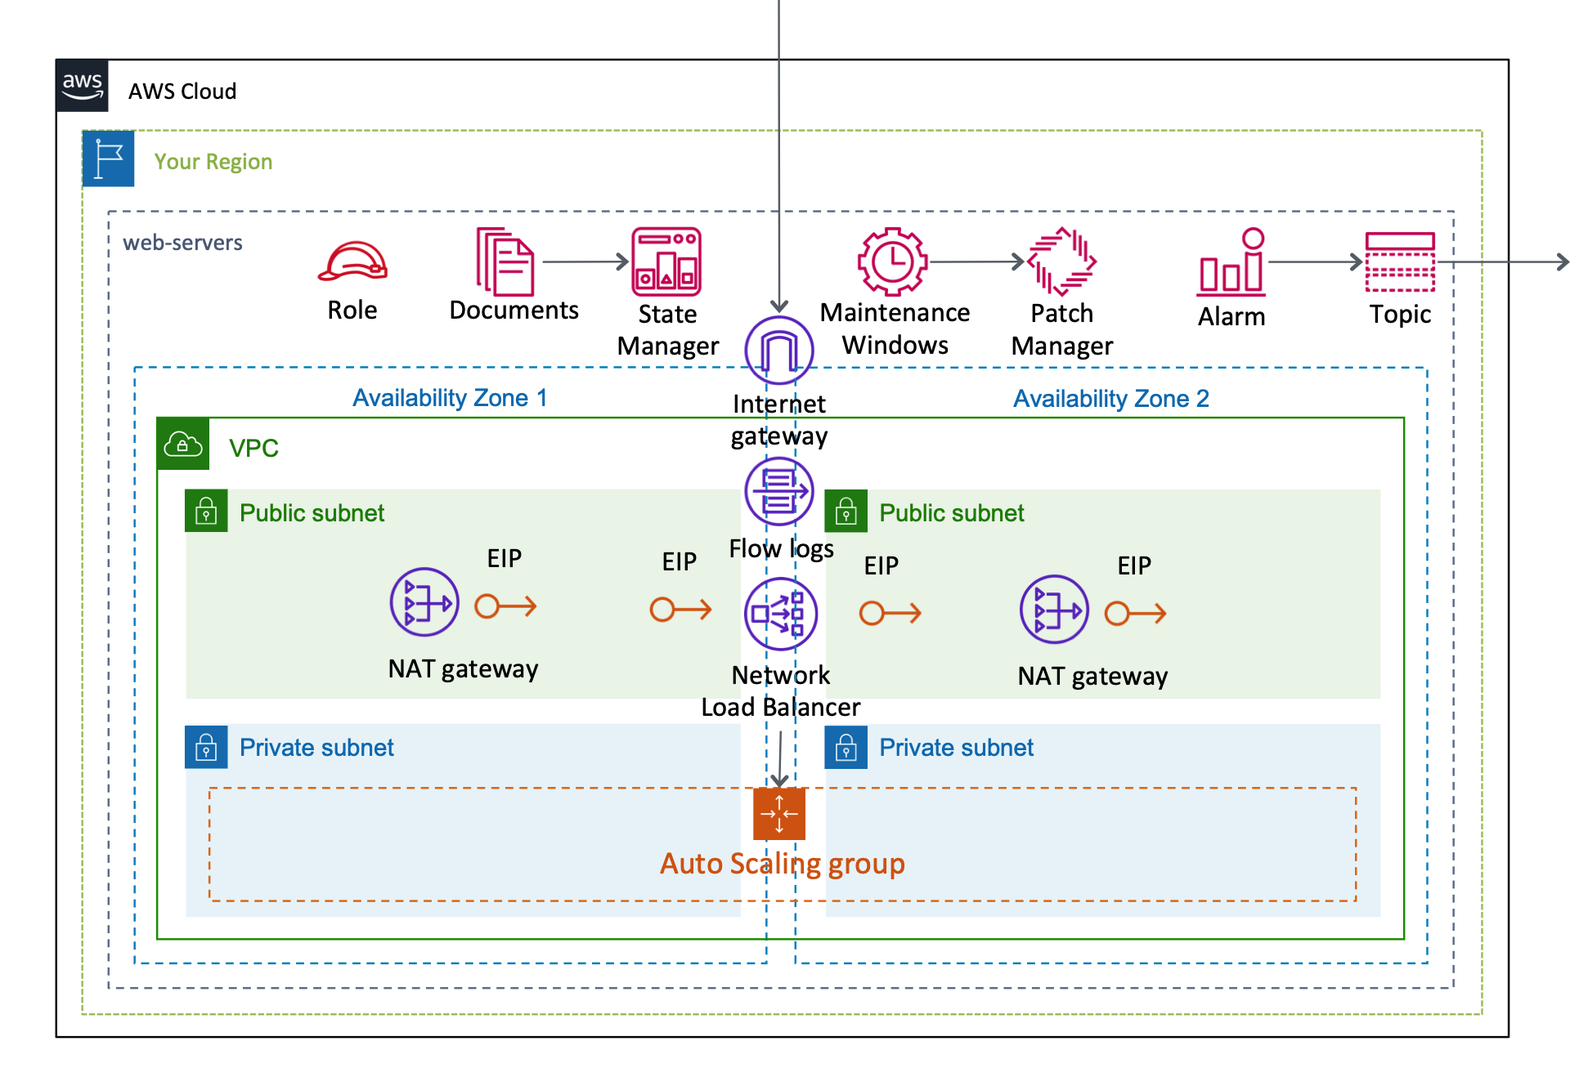
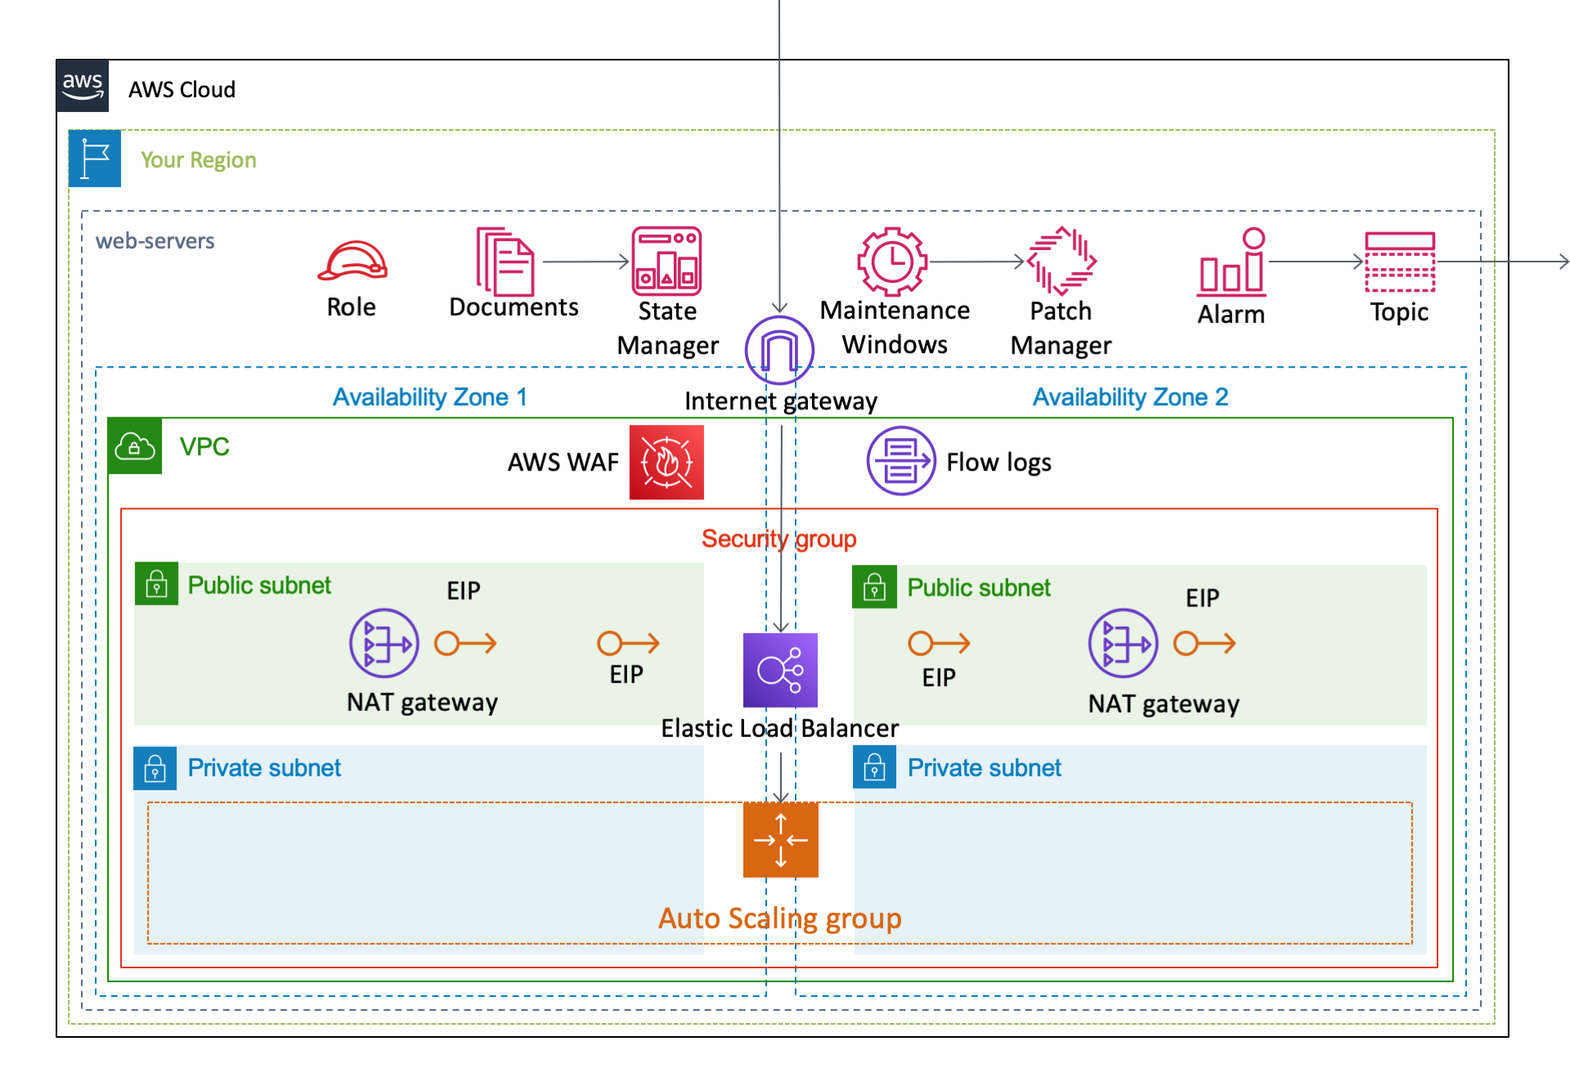
Enable to attach Certificate Manager (SSL certification) to Elastic Load Balancer. (#27)

diff --git a/README_JP.md b/README_JP.md
@@ -13,20 +13,20 @@ AWSCloudFormationTemplates は、**アカウント作成直後に行うべきセ
 
 | アプリケーション名 | 最新バージョン | リンク |
 | --- | --- | --- |
-| [codepipeline-default-settings](cicd/codepipeline-default-settings.md) | 1.1.12 | [AWS Serverless Application Repository](https://serverlessrepo.aws.amazon.com/applications/arn:aws:serverlessrepo:us-east-1:172664222583:applications~codepipeline-default-settings) |
-| [cloudwatch-alarm-about-apigateway](monitoring/cloudwatch-alarm-about-apigateway.md) | 1.1.12 | [AWS Serverless Application Repository](https://serverlessrepo.aws.amazon.com/applications/arn:aws:serverlessrepo:us-east-1:172664222583:applications~cloudwatch-alarm-about-apigateway) |
-| [cloudwatch-alarm-about-codebuild](monitoring/cloudwatch-alarm-about-codebuild.md) | 1.1.12 | [AWS Serverless Application Repository](https://serverlessrepo.aws.amazon.com/applications/arn:aws:serverlessrepo:us-east-1:172664222583:applications~cloudwatch-alarm-about-codebuild) |
-| [cloudwatch-alarm-about-dynamodb-throttle](monitoring/cloudwatch-alarm-about-dynamodb-throttle.md) | 1.1.12 | [AWS Serverless Application Repository](https://serverlessrepo.aws.amazon.com/applications/arn:aws:serverlessrepo:us-east-1:172664222583:applications~cloudwatch-alarm-about-dynamodb-throttle) |
-| [cloudwatch-alarm-about-dynamodb](monitorining/cloudwatch-alarm-about-dynamodb.md) | 1.1.12 | [AWS Serverless Application Repository](https://serverlessrepo.aws.amazon.com/applications/arn:aws:serverlessrepo:us-east-1:172664222583:applications~cloudwatch-alarm-about-dynamodb) |
-| [cloudwatch-alarm-about-ec2](monitoring/cloudwatch-alarm-about-ec2.md) | 1.1.12 | [AWS Serverless Application Repository](https://serverlessrepo.aws.amazon.com/applications/arn:aws:serverlessrepo:us-east-1:172664222583:applications~cloudwatch-alarm-about-ec2) |
-| [cloudwatch-alarm-about-events](monitoring/cloudwatch-alarm-about-events.md) | 1.1.12 | [AWS Serverless Application Repository](https://serverlessrepo.aws.amazon.com/applications/arn:aws:serverlessrepo:us-east-1:172664222583:applications~cloudwatch-alarm-about-events) |
-| [cloudwatch-alarm-about-kinesis-data-streams](monitoring/cloudwatch-alarm-about-kinesis-data-streams.md) | 1.1.12 | [AWS Serverless Application Repository](https://serverlessrepo.aws.amazon.com/applications/arn:aws:serverlessrepo:us-east-1:172664222583:applications~cloudwatch-alarm-about-kinesis-data-streams) |
-| [cloudwatch-alarm-about-lambda](monitoring/cloudwatch-alarm-about-lambda.md) | 1.1.12 | [AWS Serverless Application Repository](https://serverlessrepo.aws.amazon.com/applications/arn:aws:serverlessrepo:us-east-1:172664222583:applications~cloudwatch-alarm-about-lambda) |
-| [cloudwatch-alarm-about-natgateway](monitoring/cloudwatch-alarm-about-natgateway.md) | 1.1.12 | [AWS Serverless Application Repository](https://serverlessrepo.aws.amazon.com/applications/arn:aws:serverlessrepo:us-east-1:172664222583:applications~cloudwatch-alarm-about-natgateway) |
-| [cloudwatch-alarm-about-sns](monitoring/cloudwatch-alarm-about-sns.md) | 1.1.12 | [AWS Serverless Application Repository](https://serverlessrepo.aws.amazon.com/applications/arn:aws:serverlessrepo:us-east-1:172664222583:applications~cloudwatch-alarm-about-sns) |
-| [sns-topic](notification/sns-topic.md) | 1.1.12 | [AWS Serverless Application Repository](https://serverlessrepo.aws.amazon.com/applications/arn:aws:serverlessrepo:us-east-1:172664222583:applications~sns-topic) |
-| [eventbridge-rules](eventbridge-rules.md) | 1.1.12 | [AWS Serverless Application Repository](https://serverlessrepo.aws.amazon.com/applications/arn:aws:serverlessrepo:us-east-1:172664222583:applications~eventbridge-rules) |
-| [delete-resources-without-required-tags](security-config-rules/delete-resources-without-required-tags.md) | 1.1.12 | [AWS Serverless Application Repository](https://serverlessrepo.aws.amazon.com/applications/arn:aws:serverlessrepo:us-east-1:172664222583:applications~delete-resources-without-required-tags) |
+| [codepipeline-default-settings](cicd/codepipeline-default-settings.md) | 1.1.13 | [AWS Serverless Application Repository](https://serverlessrepo.aws.amazon.com/applications/arn:aws:serverlessrepo:us-east-1:172664222583:applications~codepipeline-default-settings) |
+| [cloudwatch-alarm-about-apigateway](monitoring/cloudwatch-alarm-about-apigateway.md) | 1.1.13 | [AWS Serverless Application Repository](https://serverlessrepo.aws.amazon.com/applications/arn:aws:serverlessrepo:us-east-1:172664222583:applications~cloudwatch-alarm-about-apigateway) |
+| [cloudwatch-alarm-about-codebuild](monitoring/cloudwatch-alarm-about-codebuild.md) | 1.1.13 | [AWS Serverless Application Repository](https://serverlessrepo.aws.amazon.com/applications/arn:aws:serverlessrepo:us-east-1:172664222583:applications~cloudwatch-alarm-about-codebuild) |
+| [cloudwatch-alarm-about-dynamodb-throttle](monitoring/cloudwatch-alarm-about-dynamodb-throttle.md) | 1.1.13 | [AWS Serverless Application Repository](https://serverlessrepo.aws.amazon.com/applications/arn:aws:serverlessrepo:us-east-1:172664222583:applications~cloudwatch-alarm-about-dynamodb-throttle) |
+| [cloudwatch-alarm-about-dynamodb](monitorining/cloudwatch-alarm-about-dynamodb.md) | 1.1.13 | [AWS Serverless Application Repository](https://serverlessrepo.aws.amazon.com/applications/arn:aws:serverlessrepo:us-east-1:172664222583:applications~cloudwatch-alarm-about-dynamodb) |
+| [cloudwatch-alarm-about-ec2](monitoring/cloudwatch-alarm-about-ec2.md) | 1.1.13 | [AWS Serverless Application Repository](https://serverlessrepo.aws.amazon.com/applications/arn:aws:serverlessrepo:us-east-1:172664222583:applications~cloudwatch-alarm-about-ec2) |
+| [cloudwatch-alarm-about-events](monitoring/cloudwatch-alarm-about-events.md) | 1.1.13 | [AWS Serverless Application Repository](https://serverlessrepo.aws.amazon.com/applications/arn:aws:serverlessrepo:us-east-1:172664222583:applications~cloudwatch-alarm-about-events) |
+| [cloudwatch-alarm-about-kinesis-data-streams](monitoring/cloudwatch-alarm-about-kinesis-data-streams.md) | 1.1.13 | [AWS Serverless Application Repository](https://serverlessrepo.aws.amazon.com/applications/arn:aws:serverlessrepo:us-east-1:172664222583:applications~cloudwatch-alarm-about-kinesis-data-streams) |
+| [cloudwatch-alarm-about-lambda](monitoring/cloudwatch-alarm-about-lambda.md) | 1.1.13 | [AWS Serverless Application Repository](https://serverlessrepo.aws.amazon.com/applications/arn:aws:serverlessrepo:us-east-1:172664222583:applications~cloudwatch-alarm-about-lambda) |
+| [cloudwatch-alarm-about-natgateway](monitoring/cloudwatch-alarm-about-natgateway.md) | 1.1.13 | [AWS Serverless Application Repository](https://serverlessrepo.aws.amazon.com/applications/arn:aws:serverlessrepo:us-east-1:172664222583:applications~cloudwatch-alarm-about-natgateway) |
+| [cloudwatch-alarm-about-sns](monitoring/cloudwatch-alarm-about-sns.md) | 1.1.13 | [AWS Serverless Application Repository](https://serverlessrepo.aws.amazon.com/applications/arn:aws:serverlessrepo:us-east-1:172664222583:applications~cloudwatch-alarm-about-sns) |
+| [sns-topic](notification/sns-topic.md) | 1.1.13 | [AWS Serverless Application Repository](https://serverlessrepo.aws.amazon.com/applications/arn:aws:serverlessrepo:us-east-1:172664222583:applications~sns-topic) |
+| [eventbridge-rules](eventbridge-rules.md) | 1.1.13 | [AWS Serverless Application Repository](https://serverlessrepo.aws.amazon.com/applications/arn:aws:serverlessrepo:us-east-1:172664222583:applications~eventbridge-rules) |
+| [delete-resources-without-required-tags](security-config-rules/delete-resources-without-required-tags.md) | 1.1.13 | [AWS Serverless Application Repository](https://serverlessrepo.aws.amazon.com/applications/arn:aws:serverlessrepo:us-east-1:172664222583:applications~delete-resources-without-required-tags) |
 
 ## テンプレート
 

diff --git a/README.md b/README.md
@@ -13,20 +13,20 @@ This project contains **AWS SAM–based serverless applications** and they are p
 
 | Application Name | Latest Version | Link |
 | --- | --- | --- |
-| [codepipeline-default-settings](cicd/codepipeline-default-settings.md) | 1.1.12 | [AWS Serverless Application Repository](https://serverlessrepo.aws.amazon.com/applications/arn:aws:serverlessrepo:us-east-1:172664222583:applications~codepipeline-default-settings) |
-| [cloudwatch-alarm-about-apigateway](monitoring/cloudwatch-alarm-about-apigateway.md) | 1.1.12 | [AWS Serverless Application Repository](https://serverlessrepo.aws.amazon.com/applications/arn:aws:serverlessrepo:us-east-1:172664222583:applications~cloudwatch-alarm-about-apigateway) |
-| [cloudwatch-alarm-about-codebuild](monitoring/cloudwatch-alarm-about-codebuild.md) | 1.1.12 | [AWS Serverless Application Repository](https://serverlessrepo.aws.amazon.com/applications/arn:aws:serverlessrepo:us-east-1:172664222583:applications~cloudwatch-alarm-about-codebuild) |
-| [cloudwatch-alarm-about-dynamodb-throttle](monitoring/cloudwatch-alarm-about-dynamodb-throttle.md) | 1.1.12 | [AWS Serverless Application Repository](https://serverlessrepo.aws.amazon.com/applications/arn:aws:serverlessrepo:us-east-1:172664222583:applications~cloudwatch-alarm-about-dynamodb-throttle) |
-| [cloudwatch-alarm-about-dynamodb](monitorining/cloudwatch-alarm-about-dynamodb.md) | 1.1.12 | [AWS Serverless Application Repository](https://serverlessrepo.aws.amazon.com/applications/arn:aws:serverlessrepo:us-east-1:172664222583:applications~cloudwatch-alarm-about-dynamodb) | 1.1.12 |
-| [cloudwatch-alarm-about-ec2](monitoring/cloudwatch-alarm-about-ec2.md) | 1.1.12 | [AWS Serverless Application Repository](https://serverlessrepo.aws.amazon.com/applications/arn:aws:serverlessrepo:us-east-1:172664222583:applications~cloudwatch-alarm-about-ec2) |
-| [cloudwatch-alarm-about-events](monitoring/cloudwatch-alarm-about-events.md) | 1.1.12 | [AWS Serverless Application Repository](https://serverlessrepo.aws.amazon.com/applications/arn:aws:serverlessrepo:us-east-1:172664222583:applications~cloudwatch-alarm-about-events) |
-| [cloudwatch-alarm-about-kinesis-data-streams](monitoring/cloudwatch-alarm-about-kinesis-data-streams.md) | 1.1.12 | [AWS Serverless Application Repository](https://serverlessrepo.aws.amazon.com/applications/arn:aws:serverlessrepo:us-east-1:172664222583:applications~cloudwatch-alarm-about-kinesis-data-streams) |
-| [cloudwatch-alarm-about-lambda](monitoring/cloudwatch-alarm-about-lambda.md) | 1.1.12 | [AWS Serverless Application Repository](https://serverlessrepo.aws.amazon.com/applications/arn:aws:serverlessrepo:us-east-1:172664222583:applications~cloudwatch-alarm-about-lambda) |
-| [cloudwatch-alarm-about-natgateway](monitoring/cloudwatch-alarm-about-natgateway.md) | 1.1.12 | [AWS Serverless Application Repository](https://serverlessrepo.aws.amazon.com/applications/arn:aws:serverlessrepo:us-east-1:172664222583:applications~cloudwatch-alarm-about-natgateway) |
-| [cloudwatch-alarm-about-sns](monitoring/cloudwatch-alarm-about-sns.md) | 1.1.12 | [AWS Serverless Application Repository](https://serverlessrepo.aws.amazon.com/applications/arn:aws:serverlessrepo:us-east-1:172664222583:applications~cloudwatch-alarm-about-sns) |
-| [sns-topic](notification/sns-topic.md) | 1.1.12 | [AWS Serverless Application Repository](https://serverlessrepo.aws.amazon.com/applications/arn:aws:serverlessrepo:us-east-1:172664222583:applications~sns-topic) |
-| [eventbridge-rules](eventbridge-rules.md) | 1.1.12 | [AWS Serverless Application Repository](https://serverlessrepo.aws.amazon.com/applications/arn:aws:serverlessrepo:us-east-1:172664222583:applications~eventbridge-rules) |
-| [delete-resources-without-required-tags](security-config-rules/delete-resources-without-required-tags.md) | 1.1.12 | [AWS Serverless Application Repository](https://serverlessrepo.aws.amazon.com/applications/arn:aws:serverlessrepo:us-east-1:172664222583:applications~delete-resources-without-required-tags) |
+| [codepipeline-default-settings](cicd/codepipeline-default-settings.md) | 1.1.13 | [AWS Serverless Application Repository](https://serverlessrepo.aws.amazon.com/applications/arn:aws:serverlessrepo:us-east-1:172664222583:applications~codepipeline-default-settings) |
+| [cloudwatch-alarm-about-apigateway](monitoring/cloudwatch-alarm-about-apigateway.md) | 1.1.13 | [AWS Serverless Application Repository](https://serverlessrepo.aws.amazon.com/applications/arn:aws:serverlessrepo:us-east-1:172664222583:applications~cloudwatch-alarm-about-apigateway) |
+| [cloudwatch-alarm-about-codebuild](monitoring/cloudwatch-alarm-about-codebuild.md) | 1.1.13 | [AWS Serverless Application Repository](https://serverlessrepo.aws.amazon.com/applications/arn:aws:serverlessrepo:us-east-1:172664222583:applications~cloudwatch-alarm-about-codebuild) |
+| [cloudwatch-alarm-about-dynamodb-throttle](monitoring/cloudwatch-alarm-about-dynamodb-throttle.md) | 1.1.13 | [AWS Serverless Application Repository](https://serverlessrepo.aws.amazon.com/applications/arn:aws:serverlessrepo:us-east-1:172664222583:applications~cloudwatch-alarm-about-dynamodb-throttle) |
+| [cloudwatch-alarm-about-dynamodb](monitorining/cloudwatch-alarm-about-dynamodb.md) | 1.1.13 | [AWS Serverless Application Repository](https://serverlessrepo.aws.amazon.com/applications/arn:aws:serverlessrepo:us-east-1:172664222583:applications~cloudwatch-alarm-about-dynamodb) | 1.1.13 |
+| [cloudwatch-alarm-about-ec2](monitoring/cloudwatch-alarm-about-ec2.md) | 1.1.13 | [AWS Serverless Application Repository](https://serverlessrepo.aws.amazon.com/applications/arn:aws:serverlessrepo:us-east-1:172664222583:applications~cloudwatch-alarm-about-ec2) |
+| [cloudwatch-alarm-about-events](monitoring/cloudwatch-alarm-about-events.md) | 1.1.13 | [AWS Serverless Application Repository](https://serverlessrepo.aws.amazon.com/applications/arn:aws:serverlessrepo:us-east-1:172664222583:applications~cloudwatch-alarm-about-events) |
+| [cloudwatch-alarm-about-kinesis-data-streams](monitoring/cloudwatch-alarm-about-kinesis-data-streams.md) | 1.1.13 | [AWS Serverless Application Repository](https://serverlessrepo.aws.amazon.com/applications/arn:aws:serverlessrepo:us-east-1:172664222583:applications~cloudwatch-alarm-about-kinesis-data-streams) |
+| [cloudwatch-alarm-about-lambda](monitoring/cloudwatch-alarm-about-lambda.md) | 1.1.13 | [AWS Serverless Application Repository](https://serverlessrepo.aws.amazon.com/applications/arn:aws:serverlessrepo:us-east-1:172664222583:applications~cloudwatch-alarm-about-lambda) |
+| [cloudwatch-alarm-about-natgateway](monitoring/cloudwatch-alarm-about-natgateway.md) | 1.1.13 | [AWS Serverless Application Repository](https://serverlessrepo.aws.amazon.com/applications/arn:aws:serverlessrepo:us-east-1:172664222583:applications~cloudwatch-alarm-about-natgateway) |
+| [cloudwatch-alarm-about-sns](monitoring/cloudwatch-alarm-about-sns.md) | 1.1.13 | [AWS Serverless Application Repository](https://serverlessrepo.aws.amazon.com/applications/arn:aws:serverlessrepo:us-east-1:172664222583:applications~cloudwatch-alarm-about-sns) |
+| [sns-topic](notification/sns-topic.md) | 1.1.13 | [AWS Serverless Application Repository](https://serverlessrepo.aws.amazon.com/applications/arn:aws:serverlessrepo:us-east-1:172664222583:applications~sns-topic) |
+| [eventbridge-rules](eventbridge-rules.md) | 1.1.13 | [AWS Serverless Application Repository](https://serverlessrepo.aws.amazon.com/applications/arn:aws:serverlessrepo:us-east-1:172664222583:applications~eventbridge-rules) |
+| [delete-resources-without-required-tags](security-config-rules/delete-resources-without-required-tags.md) | 1.1.13 | [AWS Serverless Application Repository](https://serverlessrepo.aws.amazon.com/applications/arn:aws:serverlessrepo:us-east-1:172664222583:applications~delete-resources-without-required-tags) |
 
 ## Templates
 

diff --git a/monitoring/README.md b/monitoring/README.md
@@ -60,7 +60,7 @@ Type: 'AWS::Serverless::Application'
 Properties:
   Location:
     ApplicationId: arn:aws:serverlessrepo:us-east-1:172664222583:applications/cloudwatch-alarm-about-apigateway
-    SemanticVersion: 1.1.12
+    SemanticVersion: 1.1.13
   NotificationARNs: 
     - String
   Parameters: 
@@ -116,7 +116,7 @@ Type: 'AWS::Serverless::Application'
 Properties:
   Location:
     ApplicationId: arn:aws:serverlessrepo:us-east-1:172664222583:applications/cloudwatch-alarm-about-codebuild
-    SemanticVersion: 1.1.12
+    SemanticVersion: 1.1.13
   NotificationARNs: 
     - String
   Parameters: 
@@ -168,7 +168,7 @@ Type: 'AWS::Serverless::Application'
 Properties:
   Location:
     ApplicationId: arn:aws:serverlessrepo:us-east-1:172664222583:applications/cloudwatch-alarm-about-dynamodb-throttle
-    SemanticVersion: 1.1.12
+    SemanticVersion: 1.1.13
   NotificationARNs: 
     - String
   Parameters: 
@@ -218,7 +218,7 @@ Type: 'AWS::Serverless::Application'
 Properties:
   Location:
     ApplicationId: arn:aws:serverlessrepo:us-east-1:172664222583:applications/cloudwatch-alarm-about-dynamodb
-    SemanticVersion: 1.1.12
+    SemanticVersion: 1.1.13
   NotificationARNs: 
     - String
   Parameters: 
@@ -269,7 +269,7 @@ Type: 'AWS::Serverless::Application'
 Properties:
   Location:
     ApplicationId: arn:aws:serverlessrepo:us-east-1:172664222583:applications/cloudwatch-alarm-about-ec2
-    SemanticVersion: 1.1.12
+    SemanticVersion: 1.1.13
   NotificationARNs: 
     - String
   Parameters: 
@@ -320,7 +320,7 @@ Type: 'AWS::Serverless::Application'
 Properties:
   Location:
     ApplicationId: arn:aws:serverlessrepo:us-east-1:172664222583:applications/cloudwatch-alarm-about-events
-    SemanticVersion: 1.1.12
+    SemanticVersion: 1.1.13
   NotificationARNs: 
     - String
   Parameters: 
@@ -377,7 +377,7 @@ Type: 'AWS::Serverless::Application'
 Properties:
   Location:
     ApplicationId: arn:aws:serverlessrepo:us-east-1:172664222583:applications/cloudwatch-alarm-about-kinesis
-    SemanticVersion: 1.1.12
+    SemanticVersion: 1.1.13
   NotificationARNs: 
     - String
   Parameters: 
@@ -437,7 +437,7 @@ Type: 'AWS::Serverless::Application'
 Properties:
   Location:
     ApplicationId: arn:aws:serverlessrepo:us-east-1:172664222583:applications/cloudwatch-alarm-about-lambda
-    SemanticVersion: 1.1.12
+    SemanticVersion: 1.1.13
   NotificationARNs: 
     - String
   Parameters: 
@@ -488,7 +488,7 @@ Type: 'AWS::Serverless::Application'
 Properties:
   Location:
     ApplicationId: arn:aws:serverlessrepo:us-east-1:172664222583:applications/cloudwatch-alarm-about-natgateway
-    SemanticVersion: 1.1.12
+    SemanticVersion: 1.1.13
   NotificationARNs: 
     - String
   Parameters: 
@@ -538,7 +538,7 @@ Type: 'AWS::Serverless::Application'
 Properties:
   Location:
     ApplicationId: arn:aws:serverlessrepo:us-east-1:172664222583:applications/cloudwatch-alarm-about-sns
-    SemanticVersion: 1.1.12
+    SemanticVersion: 1.1.13
   NotificationARNs: 
     - String
   Parameters: 

diff --git a/monitoring/README_JP.md b/monitoring/README_JP.md
@@ -58,7 +58,7 @@ Type: 'AWS::Serverless::Application'
 Properties:
   Location:
     ApplicationId: arn:aws:serverlessrepo:us-east-1:172664222583:applications/cloudwatch-alarm-about-apigateway
-    SemanticVersion: 1.1.12
+    SemanticVersion: 1.1.13
   NotificationARNs: 
     - String
   Parameters: 
@@ -114,7 +114,7 @@ Type: 'AWS::Serverless::Application'
 Properties:
   Location:
     ApplicationId: arn:aws:serverlessrepo:us-east-1:172664222583:applications/cloudwatch-alarm-about-codebuild
-    SemanticVersion: 1.1.12
+    SemanticVersion: 1.1.13
   NotificationARNs: 
     - String
   Parameters: 
@@ -166,7 +166,7 @@ Type: 'AWS::Serverless::Application'
 Properties:
   Location:
     ApplicationId: arn:aws:serverlessrepo:us-east-1:172664222583:applications/cloudwatch-alarm-about-dynamodb-throttle
-    SemanticVersion: 1.1.12
+    SemanticVersion: 1.1.13
   NotificationARNs: 
     - String
   Parameters: 
@@ -216,7 +216,7 @@ Type: 'AWS::Serverless::Application'
 Properties:
   Location:
     ApplicationId: arn:aws:serverlessrepo:us-east-1:172664222583:applications/cloudwatch-alarm-about-dynamodb
-    SemanticVersion: 1.1.12
+    SemanticVersion: 1.1.13
   NotificationARNs: 
     - String
   Parameters: 
@@ -267,7 +267,7 @@ Type: 'AWS::Serverless::Application'
 Properties:
   Location:
     ApplicationId: arn:aws:serverlessrepo:us-east-1:172664222583:applications/cloudwatch-alarm-about-ec2
-    SemanticVersion: 1.1.12
+    SemanticVersion: 1.1.13
   NotificationARNs: 
     - String
   Parameters: 
@@ -318,7 +318,7 @@ Type: 'AWS::Serverless::Application'
 Properties:
   Location:
     ApplicationId: arn:aws:serverlessrepo:us-east-1:172664222583:applications/cloudwatch-alarm-about-events
-    SemanticVersion: 1.1.12
+    SemanticVersion: 1.1.13
   NotificationARNs: 
     - String
   Parameters: 
@@ -375,7 +375,7 @@ Type: 'AWS::Serverless::Application'
 Properties:
   Location:
     ApplicationId: arn:aws:serverlessrepo:us-east-1:172664222583:applications/cloudwatch-alarm-about-kinesis
-    SemanticVersion: 1.1.12
+    SemanticVersion: 1.1.13
   NotificationARNs: 
     - String
   Parameters: 
@@ -435,7 +435,7 @@ Type: 'AWS::Serverless::Application'
 Properties:
   Location:
     ApplicationId: arn:aws:serverlessrepo:us-east-1:172664222583:applications/cloudwatch-alarm-about-lambda
-    SemanticVersion: 1.1.12
+    SemanticVersion: 1.1.13
   NotificationARNs: 
     - String
   Parameters: 
@@ -486,7 +486,7 @@ Type: 'AWS::Serverless::Application'
 Properties:
   Location:
     ApplicationId: arn:aws:serverlessrepo:us-east-1:172664222583:applications/cloudwatch-alarm-about-natgateway
-    SemanticVersion: 1.1.12
+    SemanticVersion: 1.1.13
   NotificationARNs: 
     - String
   Parameters: 
@@ -536,7 +536,7 @@ Type: 'AWS::Serverless::Application'
 Properties:
   Location:
     ApplicationId: arn:aws:serverlessrepo:us-east-1:172664222583:applications/cloudwatch-alarm-about-sns
-    SemanticVersion: 1.1.12
+    SemanticVersion: 1.1.13
   NotificationARNs: 
     - String
   Parameters: 

diff --git a/web-servers/README.md b/web-servers/README.md
@@ -42,6 +42,7 @@ You can provide optional parameters as follows.
 | AutoScalingDesiredCapacity | Number | 1 | ○ | If it's NOT Disabled, AutoScalingGroup and Network Load Balancer are created. | 
 | AutoScalingMaxSize | Number | 1 | ○ | |
 | AutoScalingLoadBalancerType | None, application, network | None | ○ | If you set 'None', an ELB is NOT created. |
+| CertificateManagerARN | String | | | If it's NOT empty, **SSL Certification** is associated with **Elastic Load Balancer**. |
 | EC2DailySnapshotScheduledAt | String | 17:00 | ○ | Starting time of daily snapshot. (UTC) |
 | EC2ImageId | AWS::EC2::Image::Id | ami-068a6cefc24c301d2 | ○ | Amazon Linux 2 AMI (HVM), SSD Volume Type (64bit x86) |
 | EC2InstanceType | String | t3.micro | ○ | | 

diff --git a/web-servers/README_JP.md b/web-servers/README_JP.md
@@ -42,6 +42,7 @@ aws cloudformation deploy --template-file template.yaml --stack-name WebServers 
 | AutoScalingDesiredCapacity | Number | 1 | ○ | | 
 | AutoScalingMaxSize | Number | 1 | ○ | |
 | AutoScalingLoadBalancerType | None, application, network | None | ○ | 'None'を指定した場合、ELBは作成されません。 |
+| CertificateManagerARN | String | | | ARNを指定した場合、**Elastic Load Balancer** に **SSL証明書** が紐付けられます。 |
 | EC2DailySnapshotScheduledAt | String | 17:00 | ○ | スナップショット作成時刻 (UTC) |
 | EC2ImageId | AWS::EC2::Image::Id | ami-068a6cefc24c301d2 | ○ | Amazon Linux 2 AMI (HVM), SSD Volume Type (64bit x86) |
 | EC2InstanceType | String | t3.micro | ○ | | 
